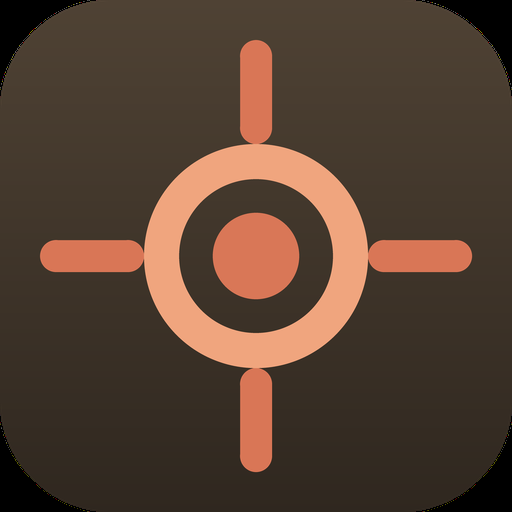
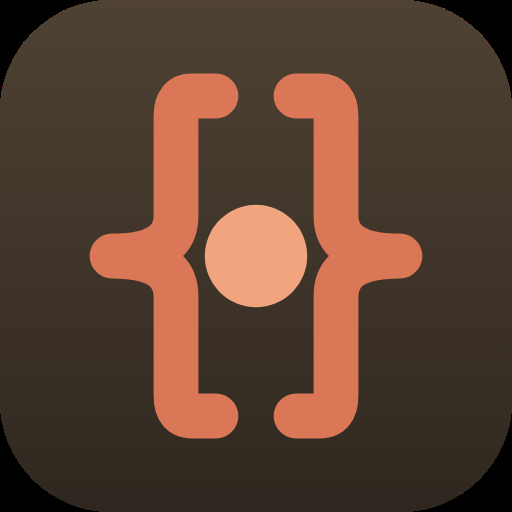
GOKHAN SOFTWARE logosu: kod parantezi isareti
- Nisan isareti yerine kose donusleri keskin kod parantezi { } gecti
- Favicon, ana ekran ikonlari ve sayfa basliklarindaki isaret yenilendi
- Sohbette cevap balonunun yanindaki kucuk isaret de ayni forma cekildi
- Alt bilgide urun adi yerine sirket adi: GOKHAN SOFTWARE

Claude-Session: https://claude.ai/code/session_019LcNMVHTmNLxFLCYwcY8ip

Changed region(s): [[0.1875, 0.0625, 0.8125, 0.9375], [0.8125, 0.4688, 0.9375, 0.5312], [0.0625, 0.4688, 0.1875, 0.5312]]

diff --git a/gokhanaigithub/public/chat.html b/gokhanaigithub/public/chat.html
@@ -35,11 +35,10 @@
     <main class="panel wide" style="width:min(1080px,100%)">
       <div class="panel-head" style="display:flex;align-items:center;justify-content:space-between;gap:16px;flex-wrap:wrap">
         <div class="mark">
-          <svg width="26" height="26" viewBox="0 0 26 26" fill="none" aria-hidden="true">
-            <circle cx="13" cy="13" r="11.2" stroke="#D97757" stroke-width="1.1" opacity=".55"/>
-            <circle cx="13" cy="13" r="6.4" stroke="#F0A57E" stroke-width="1.1"/>
-            <circle cx="13" cy="13" r="1.9" fill="#D97757"/>
-            <path d="M13 .8v4.4M13 20.8v4.4M.8 13h4.4M20.8 13h4.4" stroke="#D97757" stroke-width="1.1" opacity=".7"/>
+          <svg width="26" height="26" viewBox="0 0 64 64" fill="none" aria-hidden="true">
+            <path d="M27 12 H24 Q22 12 22 14.5 V27 Q22 32 14 32 Q22 32 22 37 V49.5 Q22 52 24 52 H27" fill="none" stroke="#D97757" stroke-width="5.6" stroke-linecap="round" stroke-linejoin="round"/>
+            <path d="M37 12 H40 Q42 12 42 14.5 V27 Q42 32 50 32 Q42 32 42 37 V49.5 Q42 52 40 52 H37" fill="none" stroke="#D97757" stroke-width="5.6" stroke-linecap="round" stroke-linejoin="round"/>
+            <circle cx="32" cy="32" r="6.4" fill="#F0A57E"/>
           </svg>
           <div class="wordmark">gokhan<em>.ai</em></div>
         </div>
@@ -93,7 +92,7 @@
   <div class="footer">
     <span class="pulse"><i></i>bağlantı güvenli</span>
     <span class="dim" id="stat"></span>
-    <span>gokhan.ai</span>
+    <span>GOKHAN SOFTWARE</span>
   </div>
 </div>
 
@@ -200,7 +199,7 @@
   }
   function aiHtml(inner){
     return '<div class="msg-a"><div class="by">' +
-      '<svg width="13" height="13" viewBox="0 0 26 26" fill="none"><circle cx="13" cy="13" r="11" stroke="#D97757" stroke-width="1.6" opacity=".5"/><circle cx="13" cy="13" r="4" fill="#D97757"/></svg>' +
+      '<svg width="13" height="13" viewBox="0 0 64 64" fill="none"><path d="M27 12 H24 Q22 12 22 14.5 V27 Q22 32 14 32 Q22 32 22 37 V49.5 Q22 52 24 52 H27" fill="none" stroke="#D97757" stroke-width="6.4" stroke-linecap="round" stroke-linejoin="round"/><path d="M37 12 H40 Q42 12 42 14.5 V27 Q42 32 50 32 Q42 32 42 37 V49.5 Q42 52 40 52 H37" fill="none" stroke="#D97757" stroke-width="6.4" stroke-linecap="round" stroke-linejoin="round"/><circle cx="32" cy="32" r="6.4" fill="#F0A57E"/></svg>' +
       'gokhan.ai</div><div class="body">' + inner + '</div></div>';
   }
   function fileIcon(name){

diff --git a/gokhanaigithub/public/onay.html b/gokhanaigithub/public/onay.html
@@ -48,11 +48,10 @@
     <main class="panel wide" style="width:min(760px,100%)">
       <div class="panel-head">
         <div class="mark">
-          <svg width="26" height="26" viewBox="0 0 26 26" fill="none" aria-hidden="true">
-            <circle cx="13" cy="13" r="11.2" stroke="#D97757" stroke-width="1.1" opacity=".55"/>
-            <circle cx="13" cy="13" r="6.4" stroke="#F0A57E" stroke-width="1.1"/>
-            <circle cx="13" cy="13" r="1.9" fill="#D97757"/>
-            <path d="M13 .8v4.4M13 20.8v4.4M.8 13h4.4M20.8 13h4.4" stroke="#D97757" stroke-width="1.1" opacity=".7"/>
+          <svg width="26" height="26" viewBox="0 0 64 64" fill="none" aria-hidden="true">
+            <path d="M27 12 H24 Q22 12 22 14.5 V27 Q22 32 14 32 Q22 32 22 37 V49.5 Q22 52 24 52 H27" fill="none" stroke="#D97757" stroke-width="5.6" stroke-linecap="round" stroke-linejoin="round"/>
+            <path d="M37 12 H40 Q42 12 42 14.5 V27 Q42 32 50 32 Q42 32 42 37 V49.5 Q42 52 40 52 H37" fill="none" stroke="#D97757" stroke-width="5.6" stroke-linecap="round" stroke-linejoin="round"/>
+            <circle cx="32" cy="32" r="6.4" fill="#F0A57E"/>
           </svg>
           <div class="wordmark">gokhan<em>.ai</em></div>
         </div>
@@ -132,7 +131,7 @@
   <div class="footer">
     <span class="pulse"><i></i>bağlantı güvenli</span>
     <span class="dim" id="durum"></span>
-    <span>gokhan.ai</span>
+    <span>GOKHAN SOFTWARE</span>
   </div>
 </div>
 

diff --git a/gokhanaigithub/public/change.html b/gokhanaigithub/public/change.html
@@ -32,11 +32,10 @@
     <main class="panel">
       <div class="panel-head">
         <div class="mark">
-          <svg width="26" height="26" viewBox="0 0 26 26" fill="none" aria-hidden="true">
-            <circle cx="13" cy="13" r="11.2" stroke="#D97757" stroke-width="1.1" opacity=".55"/>
-            <circle cx="13" cy="13" r="6.4" stroke="#F0A57E" stroke-width="1.1"/>
-            <circle cx="13" cy="13" r="1.9" fill="#D97757"/>
-            <path d="M13 .8v4.4M13 20.8v4.4M.8 13h4.4M20.8 13h4.4" stroke="#D97757" stroke-width="1.1" opacity=".7"/>
+          <svg width="26" height="26" viewBox="0 0 64 64" fill="none" aria-hidden="true">
+            <path d="M27 12 H24 Q22 12 22 14.5 V27 Q22 32 14 32 Q22 32 22 37 V49.5 Q22 52 24 52 H27" fill="none" stroke="#D97757" stroke-width="5.6" stroke-linecap="round" stroke-linejoin="round"/>
+            <path d="M37 12 H40 Q42 12 42 14.5 V27 Q42 32 50 32 Q42 32 42 37 V49.5 Q42 52 40 52 H37" fill="none" stroke="#D97757" stroke-width="5.6" stroke-linecap="round" stroke-linejoin="round"/>
+            <circle cx="32" cy="32" r="6.4" fill="#F0A57E"/>
           </svg>
           <div class="wordmark">gokhan<em>.ai</em></div>
         </div>
@@ -89,7 +88,7 @@
   <div class="footer">
     <span class="pulse"><i></i>bağlantı güvenli</span>
     <span class="dim">şifreler scrypt ile saklanır</span>
-    <span>gokhan.ai</span>
+    <span>GOKHAN SOFTWARE</span>
   </div>
 </div>
 

diff --git a/gokhanaigithub/public/panel.html b/gokhanaigithub/public/panel.html
@@ -34,11 +34,10 @@
     <main class="panel wide">
       <div class="panel-head">
         <div class="mark">
-          <svg width="26" height="26" viewBox="0 0 26 26" fill="none" aria-hidden="true">
-            <circle cx="13" cy="13" r="11.2" stroke="#D97757" stroke-width="1.1" opacity=".55"/>
-            <circle cx="13" cy="13" r="6.4" stroke="#F0A57E" stroke-width="1.1"/>
-            <circle cx="13" cy="13" r="1.9" fill="#D97757"/>
-            <path d="M13 .8v4.4M13 20.8v4.4M.8 13h4.4M20.8 13h4.4" stroke="#D97757" stroke-width="1.1" opacity=".7"/>
+          <svg width="26" height="26" viewBox="0 0 64 64" fill="none" aria-hidden="true">
+            <path d="M27 12 H24 Q22 12 22 14.5 V27 Q22 32 14 32 Q22 32 22 37 V49.5 Q22 52 24 52 H27" fill="none" stroke="#D97757" stroke-width="5.6" stroke-linecap="round" stroke-linejoin="round"/>
+            <path d="M37 12 H40 Q42 12 42 14.5 V27 Q42 32 50 32 Q42 32 42 37 V49.5 Q42 52 40 52 H37" fill="none" stroke="#D97757" stroke-width="5.6" stroke-linecap="round" stroke-linejoin="round"/>
+            <circle cx="32" cy="32" r="6.4" fill="#F0A57E"/>
           </svg>
           <div class="wordmark">gokhan<em>.ai</em></div>
         </div>
@@ -142,7 +141,7 @@
   <div class="footer">
     <span class="pulse"><i></i>bağlantı güvenli</span>
     <span class="dim" id="stat"></span>
-    <span>gokhan.ai</span>
+    <span>GOKHAN SOFTWARE</span>
   </div>
 </div>
 

diff --git a/gokhanaigithub/public/index.html b/gokhanaigithub/public/index.html
@@ -30,11 +30,10 @@
     <main class="panel">
       <div class="panel-head">
         <div class="mark">
-          <svg width="26" height="26" viewBox="0 0 26 26" fill="none" aria-hidden="true">
-            <circle cx="13" cy="13" r="11.2" stroke="#D97757" stroke-width="1.1" opacity=".55"/>
-            <circle cx="13" cy="13" r="6.4" stroke="#F0A57E" stroke-width="1.1"/>
-            <circle cx="13" cy="13" r="1.9" fill="#D97757"/>
-            <path d="M13 .8v4.4M13 20.8v4.4M.8 13h4.4M20.8 13h4.4" stroke="#D97757" stroke-width="1.1" opacity=".7"/>
+          <svg width="26" height="26" viewBox="0 0 64 64" fill="none" aria-hidden="true">
+            <path d="M27 12 H24 Q22 12 22 14.5 V27 Q22 32 14 32 Q22 32 22 37 V49.5 Q22 52 24 52 H27" fill="none" stroke="#D97757" stroke-width="5.6" stroke-linecap="round" stroke-linejoin="round"/>
+            <path d="M37 12 H40 Q42 12 42 14.5 V27 Q42 32 50 32 Q42 32 42 37 V49.5 Q42 52 40 52 H37" fill="none" stroke="#D97757" stroke-width="5.6" stroke-linecap="round" stroke-linejoin="round"/>
+            <circle cx="32" cy="32" r="6.4" fill="#F0A57E"/>
           </svg>
           <div class="wordmark">gokhan<em>.ai</em></div>
         </div>
@@ -82,7 +81,7 @@
   <div class="footer">
     <span class="pulse"><i></i>bağlantı güvenli</span>
     <span id="hint" class="dim"></span>
-    <span>gokhan.ai</span>
+    <span>GOKHAN SOFTWARE</span>
   </div>
 </div>
 
